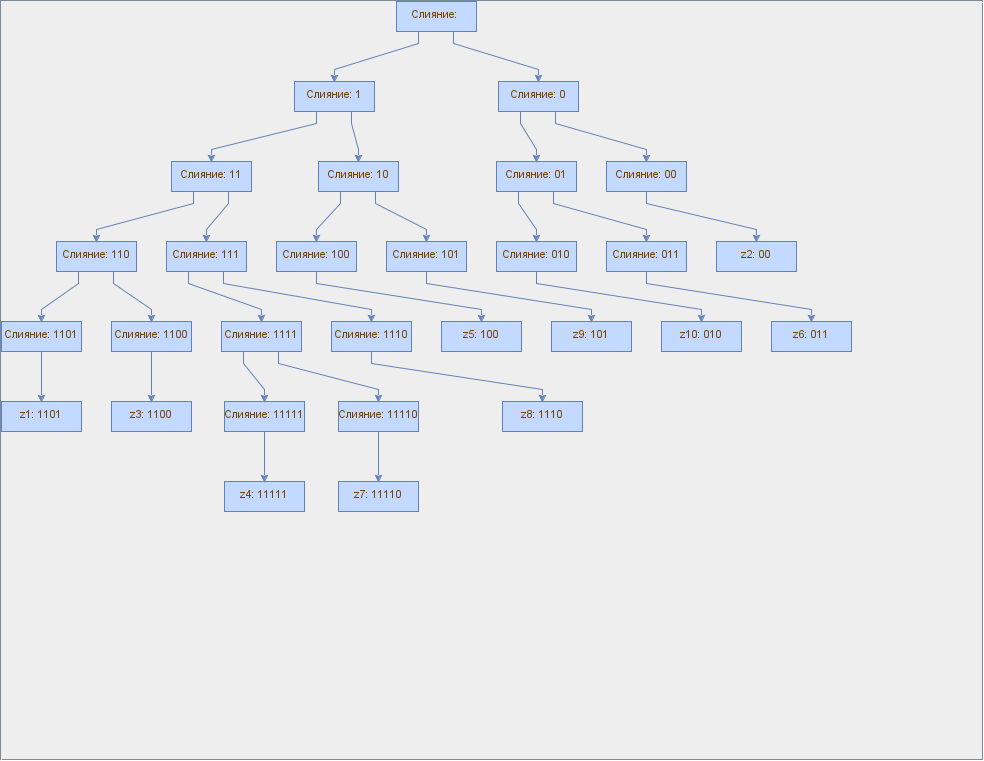
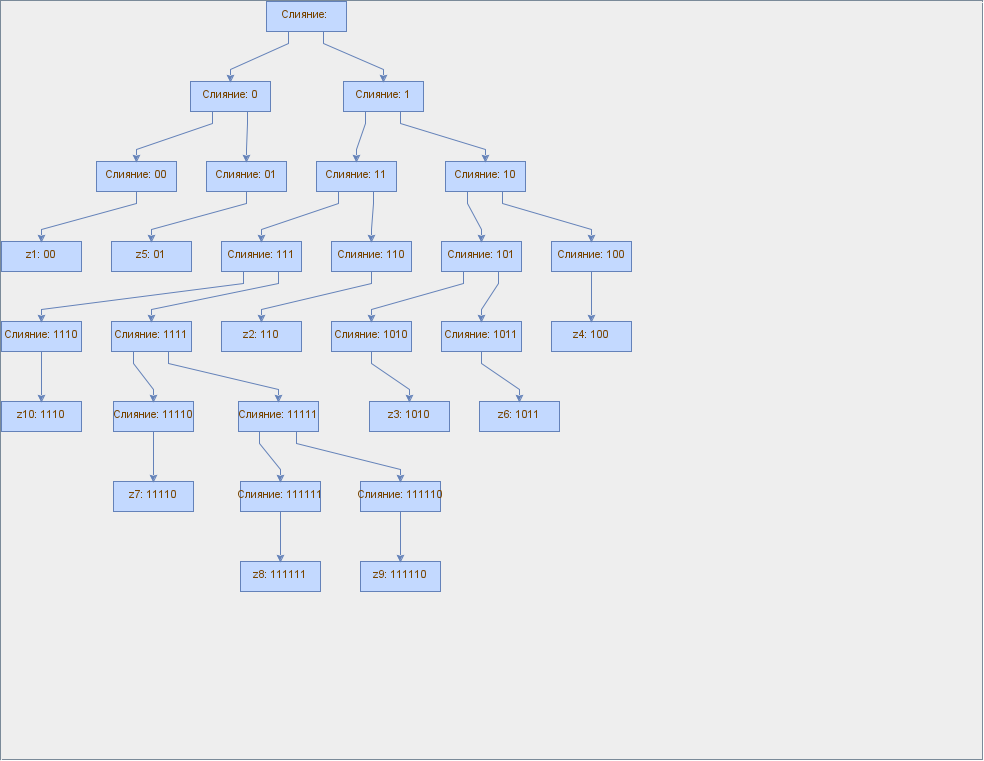
fix bag config path

diff --git a/src/main/java/startapplication/configpath/ConfigPath.java b/src/main/java/startapplication/configpath/ConfigPath.java
@@ -1,8 +1,24 @@
 package startapplication.configpath;
 
-public class ConfigPath {
+import java.io.IOException;
+import java.nio.file.Files;
+import java.nio.file.Path;
+import java.nio.file.Paths;
+import java.util.Objects;
 
-    public static final String FILE_PATH_HUFFMAN = "src/main/java/output/huffman.png";
-    public static final String FILE_PATH_FANO = "src/main/java/output/fano.png";
-    public static final String FILE_PATH_TXT = "src/main/java/output/example.txt";
+public class ConfigPath {
+    public static final String FILE_PATH_HUFFMAN = getOutputPath("huffman.png");
+    public static final String FILE_PATH_FANO = getOutputPath("fano.png");
+    public static final String FILE_PATH_TXT = getOutputPath("example.txt");
+
+    private static String getOutputPath(String filename) {
+        Path outputPath = Paths.get("src", "main", "java", "output");
+        try {
+            Files.createDirectories(outputPath);
+        } catch (IOException e) {
+            throw new RuntimeException("Could not create output directory", e);
+        }
+
+        return outputPath.resolve(filename).toString();
+    }
 }

diff --git a/src/main/java/config/Probabilities.java b/src/main/java/config/Probabilities.java
@@ -5,16 +5,16 @@ import java.util.List;
 
 public class Probabilities {
 
-    public static final double p_z1 = 0.049;
-    public static final double p_z2 = 0.26;
-    public static final double p_z3 = 0.055;
-    public static final double p_z4 = 0.025;
-    public static final double p_z5 = 0.13;
-    public static final double p_z6 = 0.145;
-    public static final double p_z7 = 0.028;
-    public static final double p_z8 = 0.046;
-    public static final double p_z9 = 0.11;
-    public static final double p_z10 = 0.152;
+    public static final double p_z1 = 0.274;
+    public static final double p_z2 = 0.09;
+    public static final double p_z3 = 0.1;
+    public static final double p_z4 = 0.115;
+    public static final double p_z5 = 0.19;
+    public static final double p_z6 = 0.09;
+    public static final double p_z7 = 0.034;
+    public static final double p_z8 = 0.022;
+    public static final double p_z9 = 0.025;
+    public static final double p_z10 = 0.06;
 
     public static List<Double> getProbabilities() {
         return new ArrayList<>(List.of(
